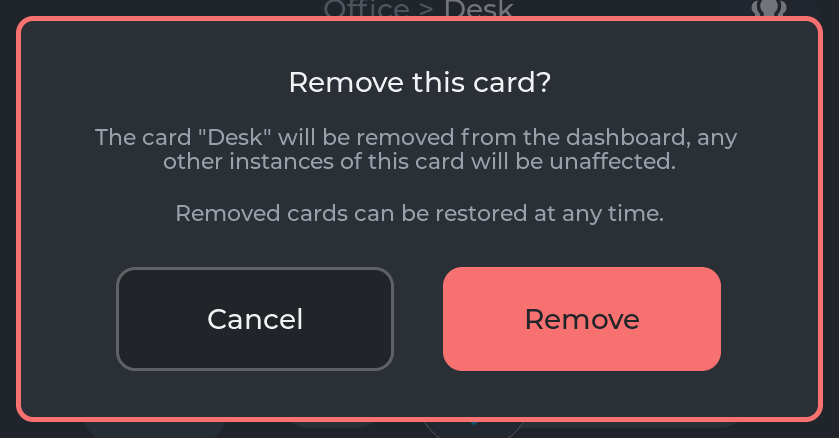
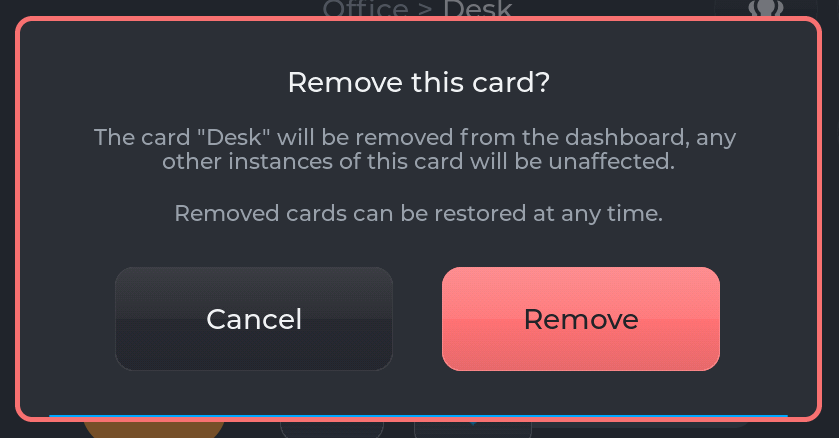
docs: #99 signed off - CHANGELOG v0.2.16, sheet archived, pictures refreshed
The owner's round 2 (T6, T10, T11 PASS; T9's pressed corners fixed in
round 3; Q7 to be lived with). CHANGELOG v0.2.16; TEST_99.md archived with
the all-nine gate (all nine SUCCESS at 2944846); the component pictures in
docs/design/components/ refreshed with the new look (owner, Q6); a lesson
(LVGL drops the corner clip of an image it recolours); HANDOFF and ROADMAP.

diff --git a/docs/DECISIONS.md b/docs/DECISIONS.md
@@ -169,6 +169,6 @@ How to use it:
 | K82 | **NINA full is 3x3 cells**: half the P4_5 at 6x3; the 7B and 1060 at 6x4 or 7x4 (under half); the whole 4B with the header bar hidden, a swipe showing it; the 4880 full or small; S3 boards small only | 2026-10-14 | owner; #100 |
 | K83 | **The clock's weather is HA's `weather.openweathermap`** (hourly and daily forecasts), not a weather service of the board's own as NINA's | 2026-10-14 | owner; #100 |
 | K84 | **The alarm is the board's own**, with custom snooze effects (built or imported); how it learns the owner's phone and watch alarms is open (the companion app's next-alarm sensor is on) | 2026-10-14 | owner; #100 |
-| K85 | **How the finishes are built** (#99, the owner's go on the approach): one kit call, `Kit::finish()`; faces painted by hand and dithered (LVGL's gradients band on 16-bit panels), satin in 16 bits with LVGL cutting its corners (half the cost of an ARGB face, measured); pressed: satin darkens, glass lightens, the object sinks 1 px; a loaded scene's ring becomes glass; Power loses its own ribbon; a member's state in colour. History's activity rows stay flat until the owner says (they can be tapped too) | 2026-10-14 | `components.md` "Finishes"; `TEST_99.md` |
-| K86 | **The header's buttons are satin**, the tab showing glass (owner, #99 test: they were soft dents); **the selector shows the rail through its glass** - taller than the rail, darker, faded (owner's idea); **a colour on glass is made to read on it** (`glassInk()`, T6); History's activity rows satin once an S3 is measured (owner, Q1) | 2026-10-15 | owner; `TEST_99.md` round 2 |
+| K85 | **How the finishes are built** (#99, the owner's go on the approach): one kit call, `Kit::finish()`; faces painted by hand and dithered (LVGL's gradients band on 16-bit panels), satin in 16 bits with LVGL cutting its corners (half the cost of an ARGB face, measured); pressed: satin darkens, glass lightens, the object sinks 1 px; a loaded scene's ring becomes glass; Power loses its own ribbon; a member's state in colour. History's activity rows stay flat until the owner says (they can be tapped too) | 2026-10-14 | `components.md` "Finishes"; `archive/TEST_99.md` |
+| K86 | **The header's buttons are satin**, the tab showing glass (owner, #99 test: they were soft dents); **the selector shows the rail through its glass** - taller than the rail, darker, faded (owner's idea); **a colour on glass is made to read on it** (`glassInk()`, T6); History's activity rows satin once an S3 is measured (owner, Q1) | 2026-10-15 | owner; `archive/TEST_99.md` round 2 |
 | K87 | **Every scrolling list catches a touch anywhere on it** (`UI::tameScroll()` makes it clickable): a swipe from a heading or a gap scrolls it (owner: the activity log scrolled only from a row) | 2026-10-15 | owner; LESSONS |

diff --git a/docs/archive/TEST_99.md b/docs/archive/TEST_99.md
@@ -28,22 +28,22 @@ panel's own 16 bits, LVGL cutting its corners, the cost halved.
 
 Members (P4_5, then the 4B):
 
-![Members, P4_5](followups/99_members_p45.png)
-![Members, 4B](followups/99_members_4b.png)
+![Members, P4_5](../followups/99_members_p45.png)
+![Members, 4B](../followups/99_members_4b.png)
 
 Scenes - before; after; after with Bright loaded:
 
-![Scenes](followups/99_scenes_p45.png)
+![Scenes](../followups/99_scenes_p45.png)
 
 The Remove dialog:
 
-![The dialog](followups/99_dialog_p45.png)
+![The dialog](../followups/99_dialog_p45.png)
 
 Power - before (light on); after, light on (glass); after, a light that is off (satin, Lamp 1);
 then the 4B before / after:
 
-![Power, P4_5](followups/99_power_p45.png)
-![Power, 4B](followups/99_power_4b.png)
+![Power, P4_5](../followups/99_power_p45.png)
+![Power, 4B](../followups/99_power_4b.png)
 
 ## How it was checked
 
@@ -113,9 +113,9 @@ the first.
 The header (before above, after below), the rail and Power (`v0.2.15`; Midnight now; Linen now,
 twice the size), and History's span selector (before / after):
 
-![The header](followups/99_header_p45.png)
-![The rail through the lens](followups/99_rail_p45.png)
-![History's spans](followups/99_spans_p45.png)
+![The header](../followups/99_header_p45.png)
+![The rail through the lens](../followups/99_rail_p45.png)
+![History's spans](../followups/99_spans_p45.png)
 
 | # | Do this | PASS if |
 |---|---|---|
@@ -126,3 +126,20 @@ twice the size), and History's span selector (before / after):
 
 - **Q7. The rail's size and strength**: a fifth taller than the rail, half faded. Too strong on
   Midnight, too faint on History's small selector? Two numbers, easy to change.
+
+**Round 2 (owner, 2026-10-15): T6, T10, T11 PASS** (T10: "this was really annoying, it's so nice to
+be able to easily scroll these now"). **T9**: pressing a header button showed a box over the top
+of its circle (on Linen, a square round it), and a pressed Remove a square outline. **Q7**: good for
+now - to be lived with.
+
+## Round 3 (2026-10-15): the pressed corners
+
+The press tint was the face's recolor, and LVGL draws an image that is both recoloured and
+corner-clipped through a path that drops the clip, so the square 16-bit satin face showed whole
+while pressed. The tint is now a **veil**: a rounded object in the face's own shape, over the face
+and under the words, clear until pressed (LESSONS). Flashed to the P4_5 for the owner's last look.
+
+**Signed off by the owner, 2026-10-15** - `v0.2.16`. The all-nine gate on the final code
+(`2944846`, `gate.ps1`): **all nine SUCCESS** in 10 min, flash 34-41 %, the owner's local lines
+restored. Structure check: 523 style calls outside the kit in 25 files (524 at `v0.2.15`), 44
+colour literals in 4 files, no shape numbers, no LVGL in the core layers.

diff --git a/docs/ROADMAP.md b/docs/ROADMAP.md
@@ -100,9 +100,10 @@ The numbers above are identity, not sequence. Agreed with the owner:
    its own) - DONE, `v0.2.12`.
 2. ~~**2.12 UI foundation - the refactor**~~ - DONE, `v0.2.13`.
 3. ~~**The UI follow-ups from 2.12's test**~~ - DONE, `v0.2.15` (#96, #97, #23 and #92 in part, #98;
-   `archive/TEST_UI_FOLLOWUPS.md`); #93 `v0.2.14`. **Next (owner, 2026-10-14): #99** satin (K77),
-   then **2.8**; A17 (settings safe from a failed mount) on its own branch. #100 NINA's clock is
-   **tabled** - three clocks agreed (K81-K84, #100), prototype on `feat/100-nina-clock`.
+   `archive/TEST_UI_FOLLOWUPS.md`); #93 `v0.2.14`; ~~#99 satin~~ DONE, `v0.2.16` (K77, K85-K87;
+   `archive/TEST_99.md`). **Next: 2.8** (the interview §3 first); A17 (settings safe from a failed
+   mount) on its own branch. #100 NINA's clock is **tabled** - three clocks agreed (K81-K84, #100),
+   prototype on `feat/100-nina-clock`.
 4. **The design interview §3 onward** (`design/interview-phase2-3.md`), then **2.8** header slots (#19).
 5. **2.11 group cards with the page arranger** (#66, #78; prototype: artifact "Layout Playground";
    engines: `design/layout-engines.md`). Its hero region is what #100 (NINA's clock) waits for.
@@ -115,7 +116,8 @@ ordered); #69 4B panel timing (WS_S3_4B locked up, waiting to be troubleshot); #
 ## Other open work, by theme
 
 - **Looks**: #73 type ladder, #80 tag styles, #82 per-panel colour, #83 custom icon packs, #85 colour
-  borders and a custom scheme page, #79 page transitions, #99 a quieter glass finish.
+  borders and a custom scheme page, #79 page transitions; History's activity rows in satin once an S3
+  is measured (K86).
 - **Side projects**: #100 clocks - small, NINA medium and NINA full (K81), the full one in 2.11's hero
   region; tabled 2026-10-14.
 - **Behaviour**: #74 clock (RTC fallback), #75 night mode, #76 HA alerts, #84 "no data yet", #71

diff --git a/CHANGELOG.md b/CHANGELOG.md
@@ -6,6 +6,25 @@ signed-off merges to `main` in the order they happen - it does not follow milest
 began finishing out of order (decided 2026-10-05; `docs/DECISIONS.md` W3). This file is where a
 version is matched to its milestones.
 
+## v0.2.16 - 2026-10-15
+
+#99 - satin and glass: what a surface says about a thing you can tap (DECISIONS K77, K85-K87).
+
+- **Satin** for what can be tapped and is not chosen - Members' rows, scenes not loaded, the Remove
+  dialog's buttons (Remove keeping its red), Power while off, the window's header buttons; **glass**
+  for what is chosen or active - a scene loaded (in place of its ring), Power while on, the tab
+  showing. Pressed, satin darkens and glass lightens under a rounded veil, and the button sinks 1 px.
+- **The selector shows the rail through its glass** (the owner's idea): a band taller than the rail,
+  darker and faded, behind the chosen icon - on the control deck and History's span selector.
+- **A member's state in colour** in Members (on in the active colour, off white); a colour drawn on
+  glass is made to read on it (Linen's olive Power icon).
+- **Every scrolling list scrolls from anywhere on it** - a day's heading in the activity log, a gap,
+  the note under Members (K87).
+- Painted by hand and dithered like the selector's metal (LVGL's gradients band on 16-bit panels),
+  satin in 16 bits: a full redraw of Members +11 ms on WS_P4_5, Scenes +5, the dialog +4. Not yet
+  measured on an S3 (the owner: merge, measure later). Signed off by the owner
+  (`docs/archive/TEST_99.md`); all nine environments build.
+
 ## v0.2.15 - 2026-10-14
 
 The UI follow-ups from 2.12's test - #96, #97, #23 and #92 in part, #98 (DECISIONS K75-K80, A16).

diff --git a/docs/design/components.md b/docs/design/components.md
@@ -182,7 +182,9 @@ What a surface says about a thing you can tap, decided once for every component:
 at the top fading by the middle, a faint step, a shade growing below, a soft edge (a shade on a
 light scheme); **glass** - the selector's metal (`metalKind()`). Called again, it changes the
 finish (a scene loaded and no longer; Power on and off - `Kit::selectorActionLit()`). Pressed:
-satin darkens 30 %, glass lightens 20 %, and the object sinks 1 px (`KS_SINK`). Colour still carries
+satin darkens 30 %, glass lightens 20 %, and the object sinks 1 px (`KS_SINK`) - the tint a
+**veil**, a rounded object in the face's shape over it, because LVGL drops the corner clip of an
+image it recolours (LESSONS). Colour still carries
 state: a member's "On, 100%, 2710 K" is in `KS_LABEL_TAG_ACTIVE`, "Off" white, Paused dimmed. A
 colour drawn on glass goes through `Kit::glassInk()`, which moves it away from the metal's tone
 (Linen's olive was lost on its silver). **The selector's glass shows the rail through it** (owner,

diff --git a/docs/LESSONS.md b/docs/LESSONS.md
@@ -545,6 +545,11 @@ next piece of eye candy:
   parent, with `LV_OBJ_FLAG_IGNORE_LAYOUT`, reached into the parent's padding - and the Members rows,
   sized to their content, grew by that padding (68 px to 106). `LV_OBJ_FLAG_FLOATING` takes a child
   out of the content size as well.
+- **An image both recoloured and corner-clipped loses its clip (#99, 2026-10-15).** LVGL's
+  software image draw has a path for a radius (`radius_only()`, no recolor) and one for a recolor
+  (`recolor_only()`, no radius); with both it falls to the general path, which here drew the square
+  image whole - a pressed satin button showed square. Tint a clipped face with a rounded veil
+  object over it, never with `image_recolor`.
 - **A touch goes to the topmost CLICKABLE object, so a bare scrolling list cannot be swiped from
   its gaps (#99, 2026-10-15).** The activity log scrolled when the finger landed on a row (a
   clickable item whose drag chains to the list) and not on a day's heading - a label, so the touch
